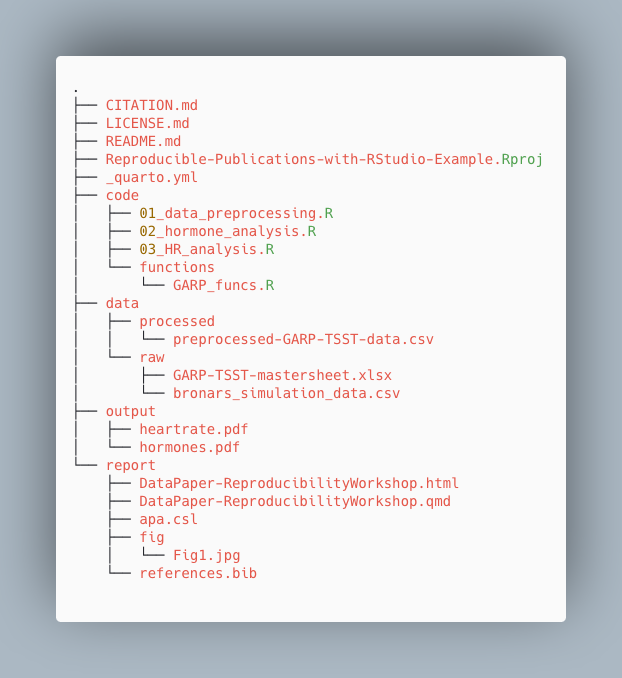
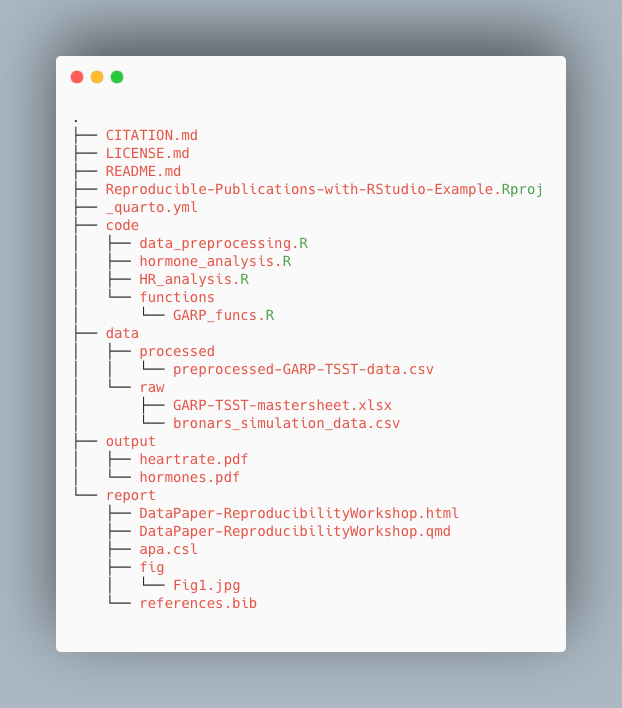
remove numbering from R scripts in code/ directory.
addresses issue #145

the R script file names will also be changed in the Examples repo which is issue 15 in that repo

Changed region(s): [[0.0916, 0.0619, 0.9164, 0.8673], [0.0916, 0.8982, 0.9164, 0.9292]]

diff --git a/episodes/02-Quarto/07-advanced-chunk.md b/episodes/02-Quarto/07-advanced-chunk.md
@@ -21,7 +21,7 @@ keypoints:
 
 ### Best Practices for Loading Data and Packages 
 
-We can improve organization and rendering speed in our documents by learning how to load data and packages. So far, we've loaded the library `tidyverse` and the data frame `df` we need in the first code chunk. Now, if we want to add another figure (say the hormone analysis code '02_hormone_analysis.R`), which uses the same data as our first code generated figure - we would be loading tidyverse and the data for a second time. This is unnecessary because once libraries and data are loaded in a Quarto document, they are available for use in the rest of the code in the following document.
+We can improve organization and rendering speed in our documents by learning how to load data and packages. So far, we've loaded the library `tidyverse` and the data frame `df` we need in the first code chunk. Now, if we want to add another figure (say the hormone analysis code 'hormone_analysis.R`), which uses the same data as our first code generated figure - we would be loading tidyverse and the data for a second time. This is unnecessary because once libraries and data are loaded in a Quarto document, they are available for use in the rest of the code in the following document.
 
 The best practice is to load libraries and data once at the beginning of our document, making it available for all other figures or calculations throughout the document -  allowing us to avoid repetition in our code and saving us rendering time. This also makes it easier for us to keep track of all the libraries and data we need to use in any given document for ourselves and collaborators. If anything needs to be tweaked, we don't need to search through every code chunk in our qmd document to make a change - it's listed right at the top. 
 
@@ -74,9 +74,9 @@ Again, let's test this out in our generic Quarto document. After our first figur
 We're just going to test out the same figure again so we can verify this new method works. So, in the heart rate analysis code chunk, delete the existing code and add the following instead:
 
 ~~~
-# run the code from 03_HR_analysis.R in the code directory
-source("code/03_HR_analysis.R")
-# display the plot created by code in 03_HR_analysis.R
+# run the code from HR_analysis.R in the code directory
+source("code/HR_analysis.R")
+# display the plot created by code in HR_analysis.R
 plot 
 ~~~
 {: .language-r}
@@ -89,9 +89,9 @@ First, find `Example 8` in the Quarto document for Fig 3 (ctrl-f "Example 8").
 Add the following code where `Example 8` is located under "Preview of Research Results".
 
 ~~~
-# run the code from 03_HR_analysis.R in the code directory
-source("code/03_HR_analysis.R")
-# display the plot created by code in 03_HR_analysis.R
+# run the code from HR_analysis.R in the code directory
+source("code/HR_analysis.R")
+# display the plot created by code in HR_analysis.R
 plot 
 ~~~
 {: .language-r}
@@ -136,9 +136,9 @@ Success! You'll notice that the global code chunk options were also applied to t
 > > {r}
 > > #|fig-hormones
 > > #|fig.cap = "Fig 3: Cortisol and Amylase levels in stress and control groups"
-> > # run the code from 02_hormone_analysis.R in the code directory
-> > source("code/02_hormone_analysis.R")
-> > # Display the plot created by code in 02_hormone_analysis.R
+> > # run the code from hormone_analysis.R in the code directory
+> > source("code/hormone_analysis.R")
+> > # Display the plot created by code in hormone_analysis.R
 > > plot 
 > > ~~~
 > > {: .language-r}

diff --git a/episodes/01-Project-Setup-Organization/02-good-project.md b/episodes/01-Project-Setup-Organization/02-good-project.md
@@ -125,7 +125,7 @@ For the project we’re working on today, we used the following setup for folder
 > > - **code:** contains the scripts that generate the plots and analysis (found in `output/`)  
 > >    - **/functions:** contains custom functions written for the data pre-processing  
 > >- **data:** This folder contains the raw and cleaned data files  
-> >    - **/processed:** contains a CSV file produced by the `01_data_preprocessing.R` script.
+> >    - **/processed:** contains a CSV file produced by the `data_preprocessing.R` script.
 > >    - **/raw:** contains the individual data files from food choice trials  
 > > - **output:** contains all plots generated by the plot scripts in the code folder  
 > > - **report:** all files needed for the publication of the research project, including:  
@@ -163,8 +163,8 @@ The three principles of file naming are:
       - i.e. `2022-01-01_data_analyses.R`  
       - Use [ISO 8601 date standard](https://en.wikipedia.org/wiki/ISO_8601)  
     - **logical**: filename starts with a number or keyword/number combo.   
-      - i.e. `01_data_preprocessing.R` *see code directory*  
-      - i.e. `CC-101_1_data.csv` *see data directory*  
+      - i.e. `CC-101_1_data.csv` 
+      - i.e. `CC-101_2_data.csv`
    
 Adapted from [https://datacarpentry.org/rr-organization1/01-file-naming/index.html](https://datacarpentry.org/rr-organization1/01-file-naming/index.html). For more tips on file naming, check: [The Dos and Don'ts of File Naming](https://www.library.ucsb.edu/sites/default/files/dls-n01-2021-filenaming.pdf).
 
@@ -174,7 +174,7 @@ Adapted from [https://datacarpentry.org/rr-organization1/01-file-naming/index.ht
 > 
 > > ## Solution:
 > > In `CC-101_1_data.csv`, the `-` is used as part of the keyword shared between several files. the `_` separates it from the trial number and description. If one were to split the filename on the `_`, the keyword would be maintained, and the trial number would be separated out. 
-> > In the `2022-01-01_data_analyses.R`, `-` is used for a date delimiter between year, month, and day. `_` is used between the rest. This allows us to split on `_`, which would preserve the date (separate from other file info).
+> > In the `2022-01-01_data_analyses.R`, the dash character `-` is used for a date delimiter between year, month, and day. The underscore character `_` is used between the words. This allows us to split on underscore `_`, which would preserve the date (separate from other file info).
 > > 
 > > It's good to strategize on the best way to name files to anticipate future uses of the information contained within the filename.
 > {: .solution}

diff --git a/episodes/02-Quarto/05-code-qmd.md b/episodes/02-Quarto/05-code-qmd.md
@@ -79,7 +79,7 @@ Unless indicated otherwise, we will continue working in **visual mode**.
 
 ## Adding our Code Example to a Code Chunk
 
-Now, let's add our first code by copying and pasting the code found below into our empty code chunk (also found in the `code` folder as `03_HR_analysis.R`. 
+Now, let's add our first code by copying and pasting the code found below into our empty code chunk (also found in the `code` folder as `HR_analysis.R`. 
 
 ~~~  
 library(tidyverse)
